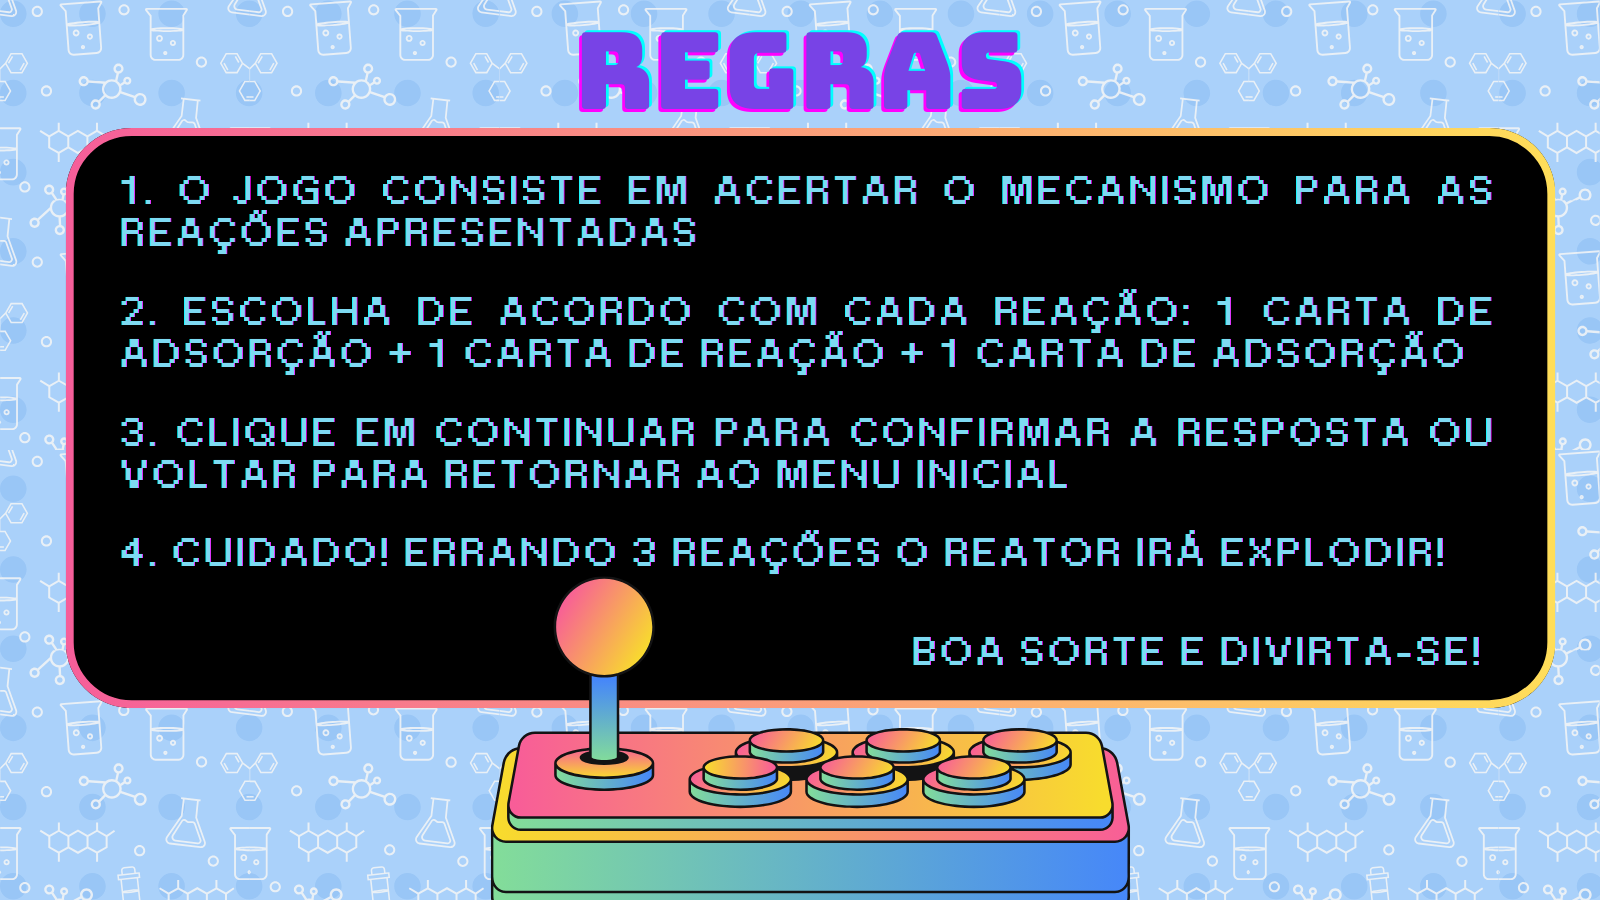
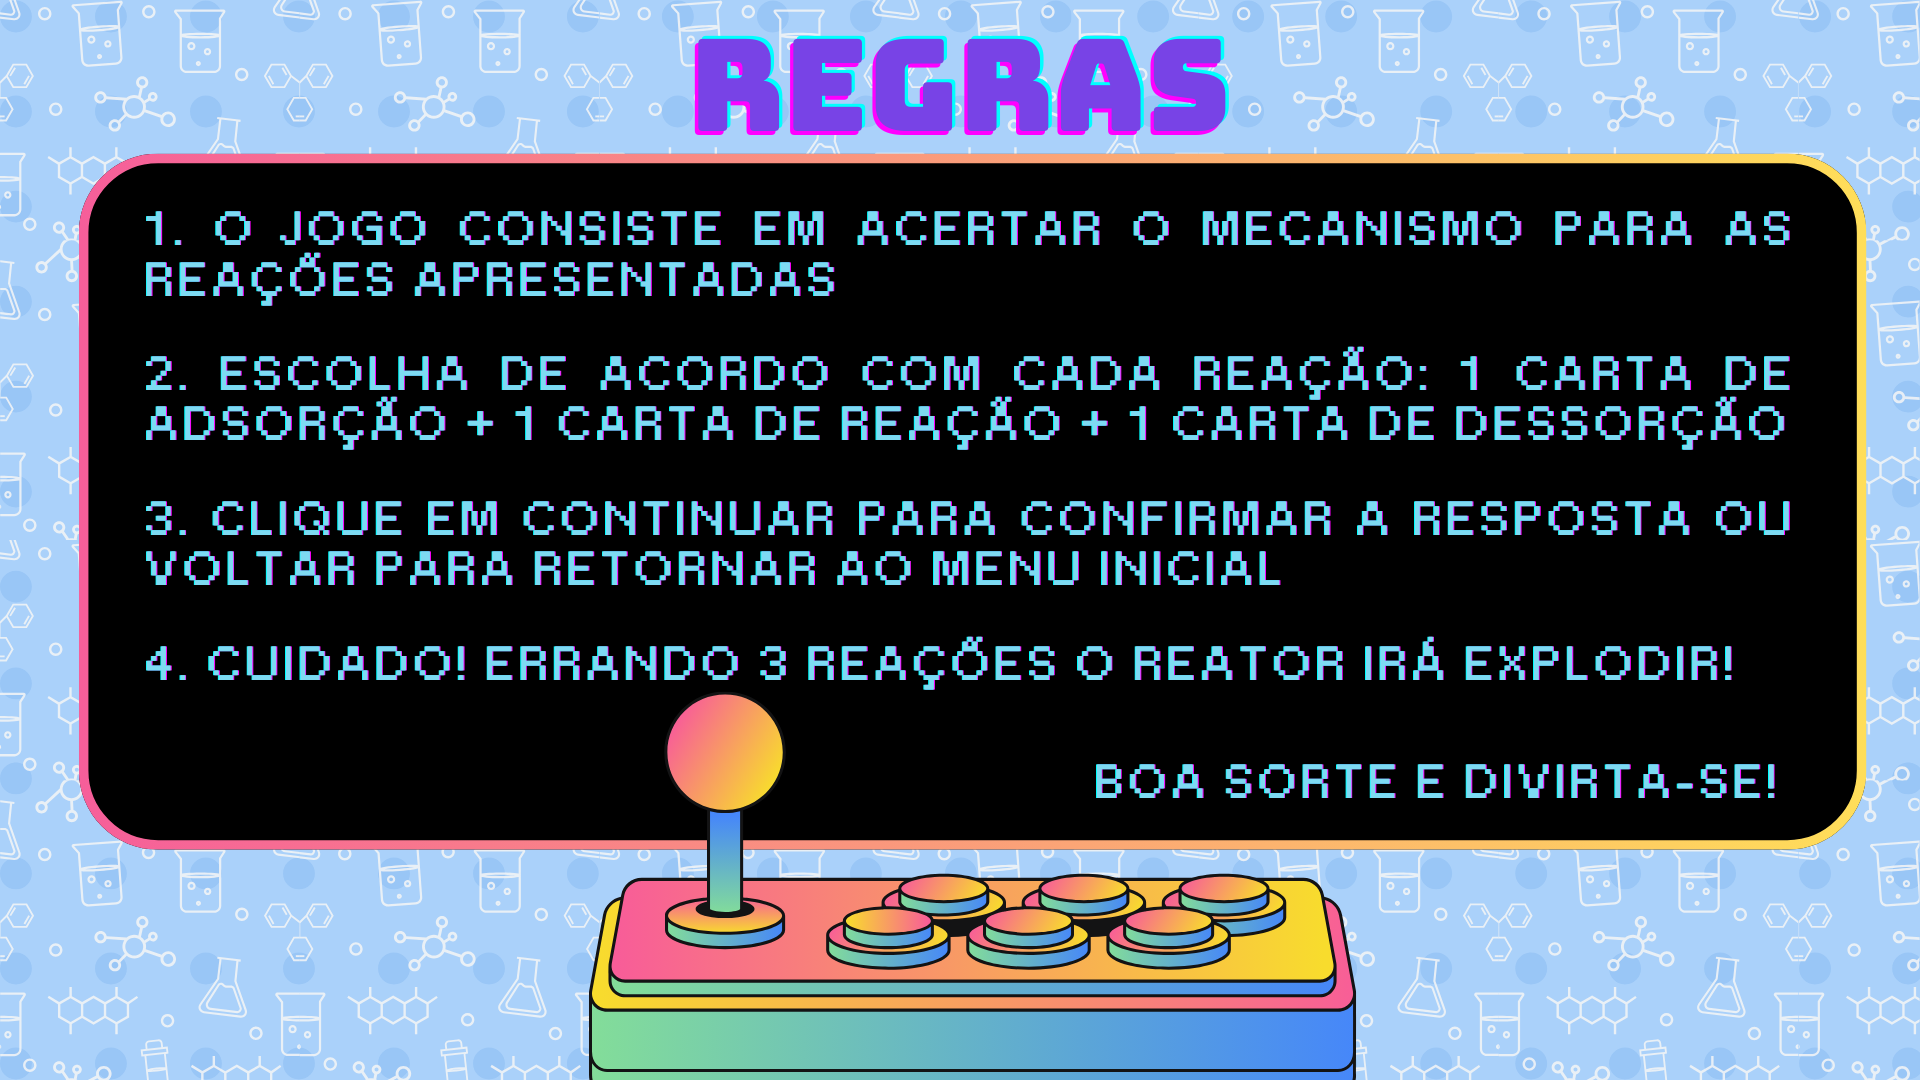
Changed fonts

diff --git a/game.py b/game.py
@@ -4,7 +4,7 @@ import threading
 from moviepy import VideoFileClip
 
 from assets import *
-from theme import COLORS
+from theme import COLORS,FONT
 
 answers_state = ["pending" for q in range(NUMBER_OF_QUESTIONS)]
 selected_questions = random.sample(list(QUESTIONS.keys()), NUMBER_OF_QUESTIONS)
@@ -77,8 +77,8 @@ def draw_title(screen):
     x = WIDTH * 0.315 - (TITLE_WIDTH // 2)
 
     pygame.draw.rect(screen, COLORS['primary'], (x, y, TITLE_WIDTH, TITLE_HEIGHT), border_radius=LABEL_RADIUS)
-    font = pygame.font.Font(None, 28)  # TODO: config
-    text = 'Mecanismo de Reação'
+    font = pygame.font.Font(FONT, 30)  # TODO: config
+    text = 'MECANISMO DE REAÇÃO'
     text_surface = font.render(text, True, COLORS['primary_text'])
 
     text_rect = text_surface.get_rect()
@@ -92,8 +92,8 @@ def draw_label(screen):
     y = 0.01 * HEIGHT
     x = 0.81 * WIDTH - (LABEL_WIDTH // 2)
     pygame.draw.rect(screen, COLORS['primary'], (x, y, LABEL_WIDTH, LABEL_HEIGHT), border_radius=LABEL_RADIUS)
-    font = pygame.font.Font(None, 28)  # TODO: config
-    text = 'Escolha suas cartas'
+    font = pygame.font.Font(FONT, 30)  # TODO: config
+    text = 'ESCOLHA AS CARTAS'
     text_surface = font.render(text, True, COLORS['primary_text'])
     text_rect = text_surface.get_rect()
     text_rect.center = (x + LABEL_WIDTH // 2, y + LABEL_HEIGHT // 2)
@@ -150,7 +150,7 @@ def draw_buttons(screen):
     start_x = SQUARE_PADDING + (NUMBER_OF_QUESTIONS + 1) * (STATUS_WIDTH + SQUARE_PADDING)
     button_y = 0.87 * HEIGHT
 
-    buttons = ['Voltar', 'Confirmar']
+    buttons = ['VOLTAR', 'CONFIRMAR']
 
     for button_index, button in enumerate(buttons):
         button_x = start_x + button_index * (BUTTON_WIDTH + SQUARE_PADDING)
@@ -161,7 +161,7 @@ def draw_buttons(screen):
         mouse_pos = pygame.mouse.get_pos()
         is_hover = rect.collidepoint(mouse_pos)
 
-        active = button != 'Confirmar' or len(selected_cards) == 3
+        active = button != 'CONFIRMAR' or len(selected_cards) == 3
 
         if not active:
             button_color = COLORS['button_disabled']
@@ -172,7 +172,7 @@ def draw_buttons(screen):
             button_color = COLORS['primary']
 
         pygame.draw.rect(screen, button_color, rect, border_radius=BUTTON_RADIUS)
-        font = pygame.font.Font(None, 36)
+        font = pygame.font.Font(FONT, 30)
         text_surface = font.render(button, True, COLORS['primary_text'])
         text_rect = text_surface.get_rect(center=rect.center)
         screen.blit(text_surface, text_rect)
@@ -207,14 +207,14 @@ def click_card(index):
 def click_button(index):
     global current_question_index, go_back, video_status
 
-    if index == 'Confirmar' and len(selected_cards) == 3:
+    if index == 'CONFIRMAR' and len(selected_cards) == 3:
         clean_screen()
         is_right = set(selected_cards) == set(QUESTIONS[selected_questions[current_question_index]]['answer'])
         answers_state[current_question_index] = 'right' if is_right else 'wrong'
         current_question_index = current_question_index + 1
         selected_cards.clear()
         video_status = 'reset'
-    elif index == 'Voltar':
+    elif index == 'VOLTAR':
         go_back = True
 
 

diff --git a/assets.py b/assets.py
@@ -1,18 +1,17 @@
 import os
 import sys
-
 import pygame
 
 screen = pygame.display.set_mode((0, 0), pygame.FULLSCREEN)
-pygame.display.set_caption("Reactor Busters")
+pygame.display.set_caption("Mecanicool")
 clock = pygame.time.Clock()
 # factor = 0.6
 # WIDTH, HEIGHT = int(1600 * factor), int(900 * factor)
 info = pygame.display.Info()
 WIDTH, HEIGHT = info.current_w, info.current_h
 
-QUESTION_VIDEO_WIDTH = int(WIDTH * 0.62)
-QUESTION_VIDEO_HEIGHT = int(QUESTION_VIDEO_WIDTH * 0.72)
+QUESTION_VIDEO_WIDTH = int(WIDTH * 0.60)
+QUESTION_VIDEO_HEIGHT = int(QUESTION_VIDEO_WIDTH * 0.70)
 
 NUMBER_OF_QUESTIONS = 5
 
@@ -44,7 +43,7 @@ CARD_BORDER_RADIUS = int(0.02 * HEIGHT)
 CARD_PADDING = int(0.01 * HEIGHT)
 CARD_BORDER_WIDTH = int(0.01 * HEIGHT)
 
-BUTTON_WIDTH, BUTTON_HEIGHT = 130, STATUS_HEIGHT
+BUTTON_WIDTH, BUTTON_HEIGHT = 170, STATUS_HEIGHT
 BUTTON_RADIUS = int(0.02 * HEIGHT)
 
 RIGHT_IMAGE = pygame.image.load(os.path.join(RESOURCES, "right_answer.png"))
@@ -60,11 +59,10 @@ CREDITS_IMAGE = pygame.image.load(os.path.join(RESOURCES, "credits.png"))
 INTRODUCTION_IMAGE = pygame.image.load(os.path.join(RESOURCES, "introduction.png"))
 RULES_IMAGE = pygame.image.load(os.path.join(RESOURCES, "rules.png"))
 
-PENDING_COLOR = (169, 169, 169)
+PENDING_COLOR = (0, 0, 0)
 
 QUESTIONS = {
     'question_1': {
-        'question': 'France?',
         'video': 'question_1.mp4',
         'answer': [
             'adsorption_dissociative',
@@ -73,7 +71,6 @@ QUESTIONS = {
         ]
     },
     'question_2': {
-        'question': 'What is the capital of Germany?',
         'video': 'question_2.mp4',
         'answer': [
             'adsorption_molecular',
@@ -82,7 +79,6 @@ QUESTIONS = {
         ]
     },
     'question_3': {
-        'question': 'What is the capital of Germany?',
         'video': 'question_3.mp4',
         'answer': [
             'adsorption_molecular',
@@ -91,7 +87,6 @@ QUESTIONS = {
         ]
     },
     'question_4': {
-        'question': 'What is the capital of Germany?',
         'video': 'question_4.mp4',
         'answer': [
             'adsorption_molecular',
@@ -100,7 +95,6 @@ QUESTIONS = {
         ]
     },
     'question_5': {
-        'question': 'What is the capital of Germany?',
         'video': 'question_5.mp4',
         'answer': [
             'adsorption_molecular',

diff --git a/theme.py b/theme.py
@@ -1,43 +1,26 @@
+import os
+from assets import RESOURCES
+
 COLORS = {
     'background': '#111111',
     'text': '#7FDBFF',
-    'button': '#0074D9',
-    'button_text': '#FFFFFF',
-    'button_hover': '#0056B3',
-    'button_hover_text': '#FFFFFF',
+    'button': '#F8DC2D',
+    'button_text': '#6418E9',
+    'button_hover': '#8C52FF',
+    'button_hover_text': '#AAD1FA',
     'button_active': '#004899',
     'button_active_text': '#FFFFFF',
     'button_disabled': '#AAAAAA',
     'button_disabled_text': '#FFFFFF',
     'button_disabled_hover': '#AAAAAA',
-    'primary': '#0074D9',
-    'primary_text': '#FFFFFF',
-    'secondary': '#FF851B',
-    'secondary_text': '#DDDDDD',
-    'Adsorption': '#FFE432',
-    'Reaction': '#FFE432',
-    'Desorption': '#FFE432',
+    'primary': '#000000',
+    'primary_text': '#AAD1FA',
+    'secondary': '#000000',
+    'secondary_text': '#AD1FA',
+    'Adsorption': '#F8DC2D',
+    'Reaction': '#F8DC2D',
+    'Desorption': '#F8DC2D',
 }
+FONT = os.path.join(RESOURCES, "game.otf")
 
-font = {
-    'header': {
-        'family': 'Arial',
-        'size': 16,
-        'weight': 'bold',
-    },
-    'secondary_header': {
-        'family': 'Arial',
-        'size': 12,
-        'weight': 'normal',
-    },
-    'text': {
-        'family': 'Arial',
-        'size': 12,
-        'weight': 'normal',
-    },
-    'button': {
-        'family': 'Arial',
-        'size': 12,
-        'weight': 'bold',
-    },
-}
+

diff --git a/basic_video_screen.py b/basic_video_screen.py
@@ -1,9 +1,7 @@
 import threading
-
 from moviepy import VideoFileClip
-
 from assets import *
-from theme import COLORS
+from theme import COLORS, FONT
 
 button_x = WIDTH * 0.90 - BUTTON_WIDTH // 2
 button_y = HEIGHT * 0.85
@@ -69,8 +67,8 @@ def basic_video_screen(video, screen, clock):
             button_color = COLORS['primary']
 
         pygame.draw.rect(screen, button_color, rect, border_radius=BUTTON_RADIUS)
-        font = pygame.font.Font(None, 36)
-        text_surface = font.render("Voltar", True, COLORS['primary_text'])
+        font = pygame.font.Font(FONT,30)
+        text_surface = font.render("VOLTAR", True, COLORS['primary_text'])
         text_rect = text_surface.get_rect(center=rect.center)
         screen.blit(text_surface, text_rect)
 

diff --git a/basic_image_screen.py b/basic_image_screen.py
@@ -1,5 +1,5 @@
 from assets import *
-from theme import COLORS
+from theme import COLORS, FONT
 
 button_x = WIDTH * 0.90 - BUTTON_WIDTH // 2
 button_y = HEIGHT * 0.85
@@ -36,8 +36,8 @@ def basic_image_screen(image, screen, clock):
             button_color = COLORS['primary']
 
         pygame.draw.rect(screen, button_color, rect, border_radius=BUTTON_RADIUS)
-        font = pygame.font.Font(None, 36)
-        text_surface = font.render("Voltar", True, COLORS['primary_text'])
+        font = pygame.font.Font(FONT, 30)
+        text_surface = font.render("VOLTAR", True, COLORS['primary_text'])
         text_rect = text_surface.get_rect(center=rect.center)
         screen.blit(text_surface, text_rect)
 

diff --git a/button.py b/button.py
@@ -1,14 +1,14 @@
 # Button class
 import pygame
 
-from theme import COLORS
+from theme import COLORS, FONT
 
 
 class Button:
     def __init__(self, x, y, width, height, text, radius, font_size=36):
         self.rect = pygame.Rect(x, y, width, height)
         self.text = text
-        self.font = pygame.font.Font(None, font_size)
+        self.font = pygame.font.Font(FONT, font_size)
         self.radius = radius
 
     def draw(self, surface):
